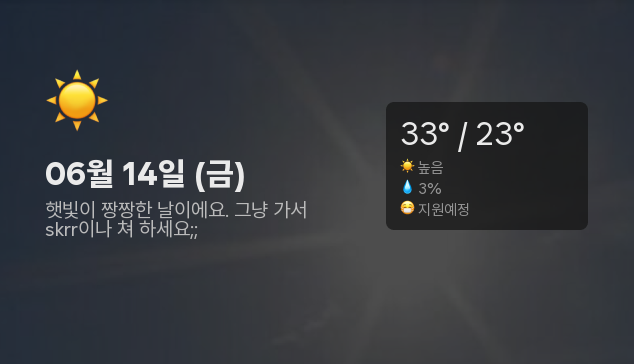
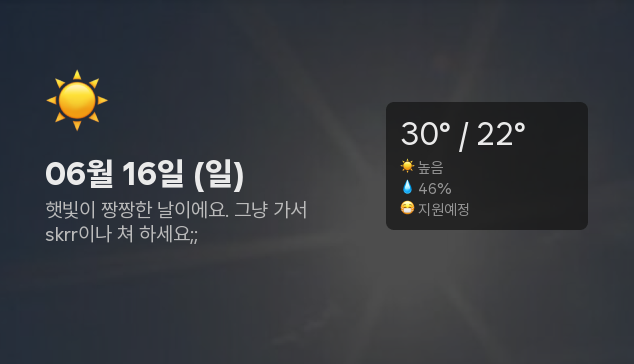
이제 jda만 으케 잘하면됨

diff --git a/src/main/java/net/yellowstrawberry/ImageRenderer.java b/src/main/java/net/yellowstrawberry/ImageRenderer.java
@@ -1,5 +1,6 @@
 package net.yellowstrawberry;
 
+import me.yellowstrawberry.openneisapi.exception.NeisException;
 import me.yellowstrawberry.openneisapi.objects.food.Food;
 
 import javax.imageio.ImageIO;
@@ -106,7 +107,6 @@ public class ImageRenderer {
         drawTimetable(g, date);
         drawMeal(g, date);
         drawWarning(g, date);
-        System.out.println(info);
 
         return new BufferedImage[]{
                 image.getSubimage(0, 0, 634, 364),
@@ -126,7 +126,7 @@ public class ImageRenderer {
         int off = 0;
         for(String a : getWeatherMessage().split("\n")) {
             g.drawString(a, 45, offsets[1]+off+g.getFontMetrics().getAscent());
-            off += g.getFontMetrics().getAscent();
+            off += g.getFontMetrics().getAscent()+g.getFontMetrics().getDescent();
         }
     }
 
@@ -147,6 +147,7 @@ public class ImageRenderer {
     private static void drawTimetable(Graphics2D g, Date date) {
         String[][] table = TimeTable.getPeriod(date);
         for (int i=0; i<table.length; i++) {
+            if(table[i][0] == null) return;
             int offset = offsets[3]*i;
             for (int j=0; j<4; j++) {
                 g.setColor(colors[j%2==1?0:2]);
@@ -162,11 +163,12 @@ public class ImageRenderer {
             g.setColor(colors[0]);
             g.setFont(fonts[1].deriveFont(sizes[6]));
             for(Food food : ona.getMealOfDay(school, date).getFood()) {
-                g.drawString(food.getName(), offsets[9], offsets[8]+offset+g.getFontMetrics().getAscent());
-                offset += g.getFontMetrics().getHeight();
+                g.drawString(food.getName(), offsets[9], offsets[8]+offset);
+                offset += g.getFontMetrics().getHeight()+g.getFontMetrics().getLeading();
             }
-        } catch (IOException e) {
-            throw new RuntimeException(e);
+        } catch (IOException | NeisException e) {
+            g.drawString("데이터 없음", offsets[9], offsets[8]+g.getFontMetrics().getLeading());
+            e.printStackTrace();
         }
     }
 
@@ -175,14 +177,14 @@ public class ImageRenderer {
         g.setColor(colors[0]);
         g.setFont(fonts[1].deriveFont(sizes[6]));
         for(String s : getWarnings(date)) {
-            g.drawString(s, offsets[10], offsets[8]+offset+g.getFontMetrics().getAscent());
-            offset += g.getFontMetrics().getHeight();
+            g.drawString(s, offsets[10], offsets[8]+offset);
+            offset += g.getFontMetrics().getHeight()+g.getFontMetrics().getLeading();
         }
     }
 
     private static String[] getWarnings(Date date) {
         // TODO: DB에서 데이터 쌔벼오기
-        return new String[]{"나는 문어, 꿈을 꾸는 무너 ^^"};
+        return new String[]{"나는 문어, 꿈을 꾸는 무너 ^^", "SEX"};
     }
 
     private static String getWeatherMessage() {

diff --git a/src/main/java/net/yellowstrawberry/Main.java b/src/main/java/net/yellowstrawberry/Main.java
@@ -19,11 +19,12 @@ public class Main {
     public static void main(String[] args) {
 //        Weather.requestWeather();
         try {
-            apiKey = args[1];
-            ona = new ONA.Builder(args[0]).build();
+            System.out.println(System.getProperty("cloud"));
+            apiKey = System.getProperty("cloud");
+            ona = new ONA.Builder(System.getProperty("neis")).build();
             school = ona.searchSchool("선린인터넷")[0];
             int i= 0;
-            for(BufferedImage ig : ImageRenderer.render(new Calendar.Builder().setTimeZone(TimeZone.getTimeZone("Asia/Seoul")).setDate(2024, 5, 14).build().getTime())) {
+            for(BufferedImage ig : ImageRenderer.render(new Calendar.Builder().setTimeZone(TimeZone.getTimeZone("Asia/Seoul")).setDate(2024, 5, 16).build().getTime())) {
                 ImageIO.write(ig, "PNG", new File("./wow%d.png".formatted(i++)));
             }
         } catch (IOException e) {

diff --git a/src/main/java/net/yellowstrawberry/Weather.java b/src/main/java/net/yellowstrawberry/Weather.java
@@ -67,7 +67,6 @@ public class Weather {
             JSONObject o2 = (JSONObject) o1;
             if(!o2.getString("baseTime").equals("0800") || !o2.getString("fcstDate").equals(sd)) continue;
             if(ftToInt(o2.getString("fcstTime")) < 800) continue;
-            size++;
             switch (o2.getString("category")) {
                 case "POP" -> {
                     // 강수 확률
@@ -84,6 +83,7 @@ public class Weather {
                     // 습도
                     hum += Integer.parseInt(o2.getString("fcstValue"));
 //                    System.out.println("습도: "+o2.getString("fcstValue")+" @ "+o2.getString("fcstTime"));
+                    size++;
                 }
                 case "WSD" -> {
                     // 풍속

diff --git a/src/main/java/net/yellowstrawberry/TimeTable.java b/src/main/java/net/yellowstrawberry/TimeTable.java
@@ -21,10 +21,11 @@ public class TimeTable {
             Calendar c = Calendar.getInstance();
             c.setTime(date);
             JSONArray a = new JSONObject(res.body().string()).getJSONArray("data").getJSONArray(c.get(Calendar.DAY_OF_WEEK));
-            String[][] r = new String[4][a.length()];
+            String[][] r = new String[a.length()][4];
 
             for(int i =0; i<a.length(); i++) {
                 JSONObject o = a.getJSONObject(i);
+                if(o.getString("subject").isBlank()) continue;
                 r[i][0] = (i+1)+"교시";
                 r[i][1] = o.getString("subject");
                 r[i][2] = "|";
